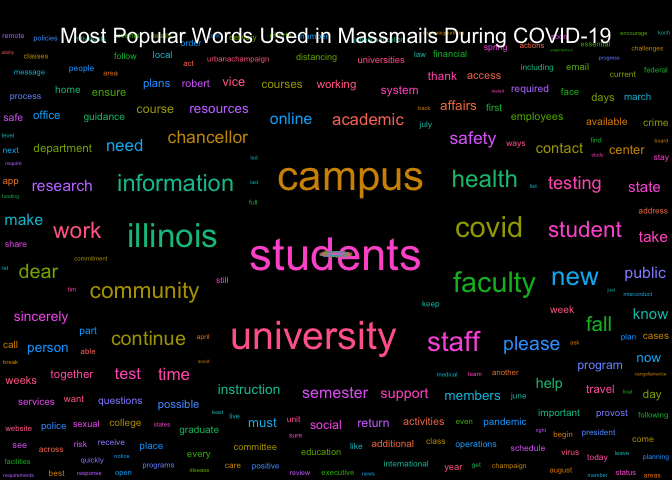
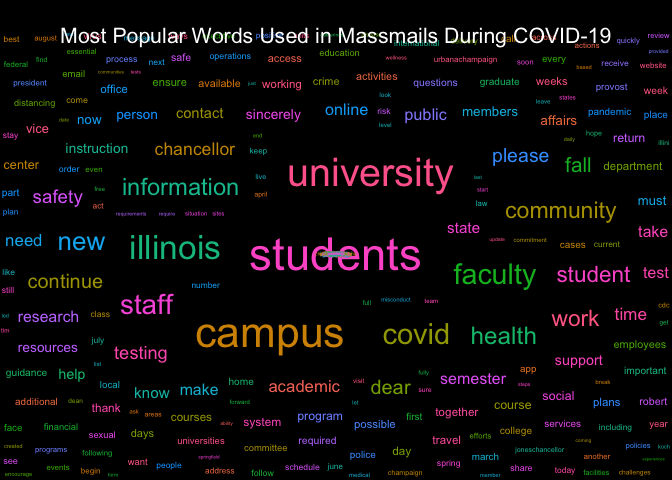
Re-build README.Rmd and Graphs

diff --git a/README.md b/README.md
@@ -17,7 +17,7 @@ The archive may be viewed here:
 
 <https://massmail.illinois.edu/massmailArchive>
 
-Data has **1212** observations and **7** variables:
+Data has **1213** observations and **7** variables:
 
   - `datetime`: Date and time when the email was sent in the form of
     `YYYY-MM-DD HMS` with either CDT or CST.
@@ -206,13 +206,13 @@ head(most_popular_words, 10) %>%
 | word        | freq |
 | :---------- | ---: |
 | students    |  611 |
-| university  |  543 |
-| campus      |  532 |
-| illinois    |  352 |
+| university  |  546 |
+| campus      |  545 |
+| illinois    |  355 |
 | faculty     |  305 |
 | covid       |  277 |
-| information |  269 |
-| community   |  264 |
+| information |  271 |
+| community   |  270 |
 | staff       |  242 |
 | health      |  226 |
 
